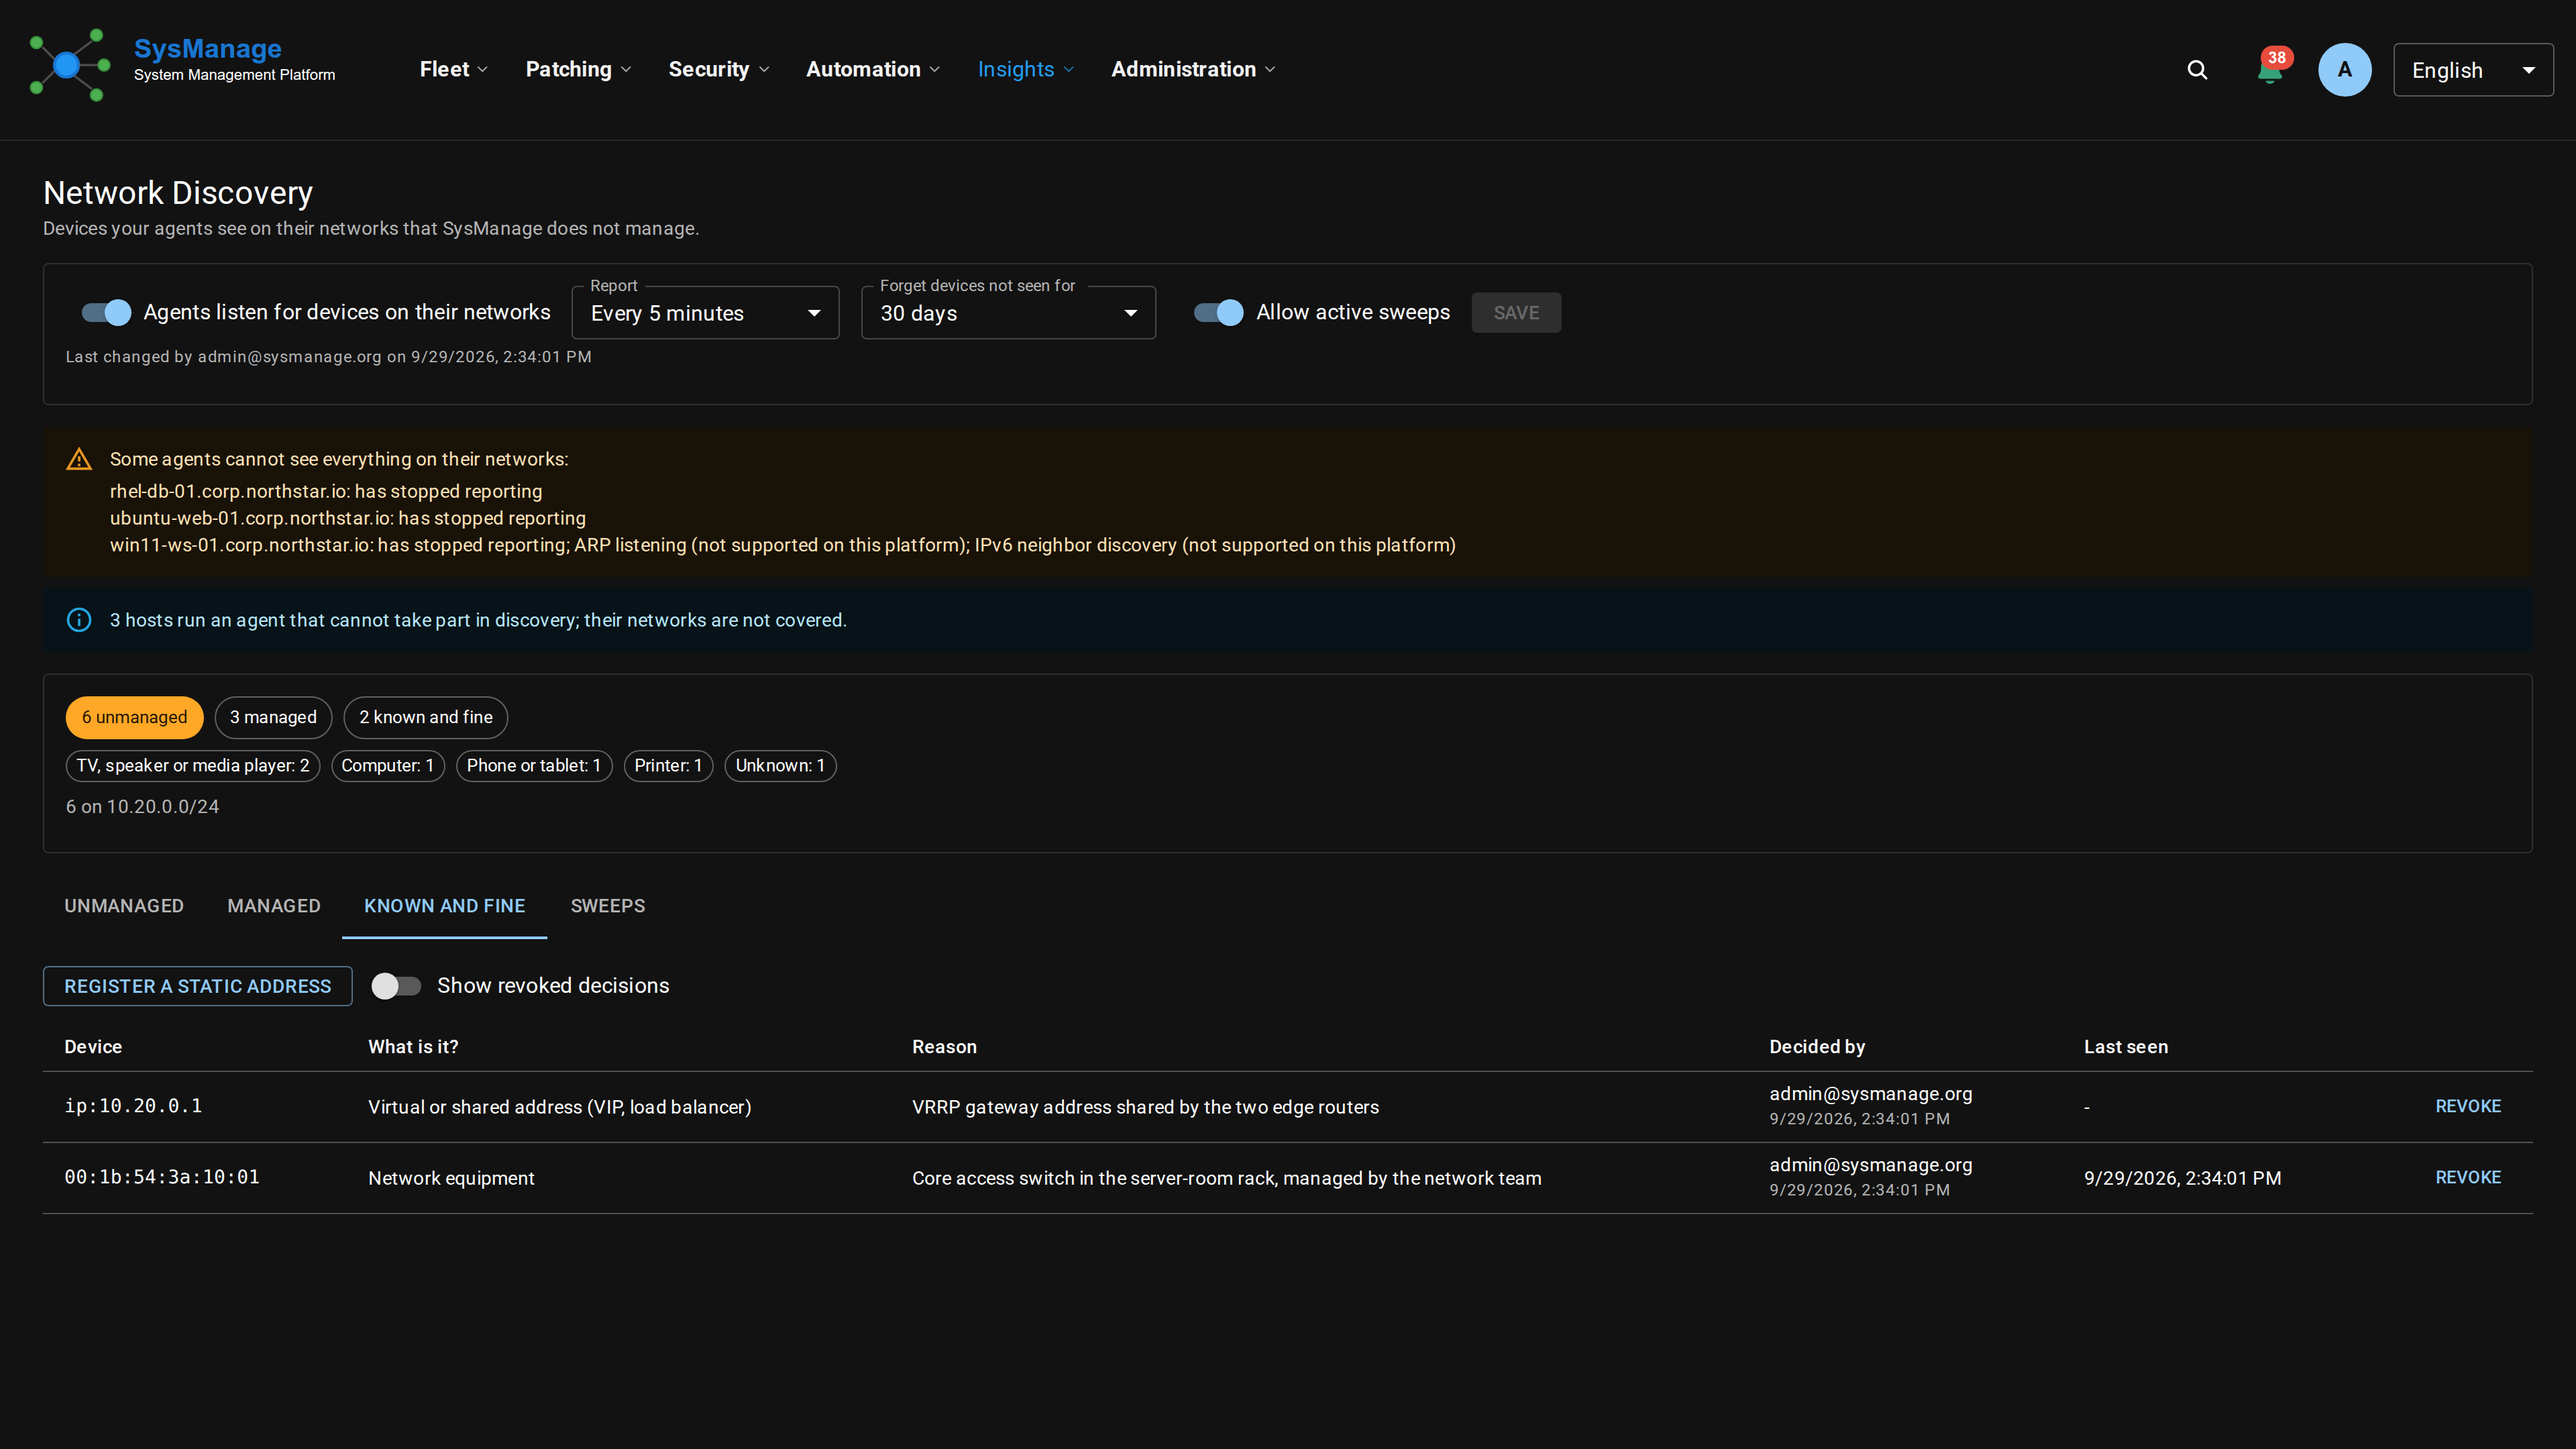
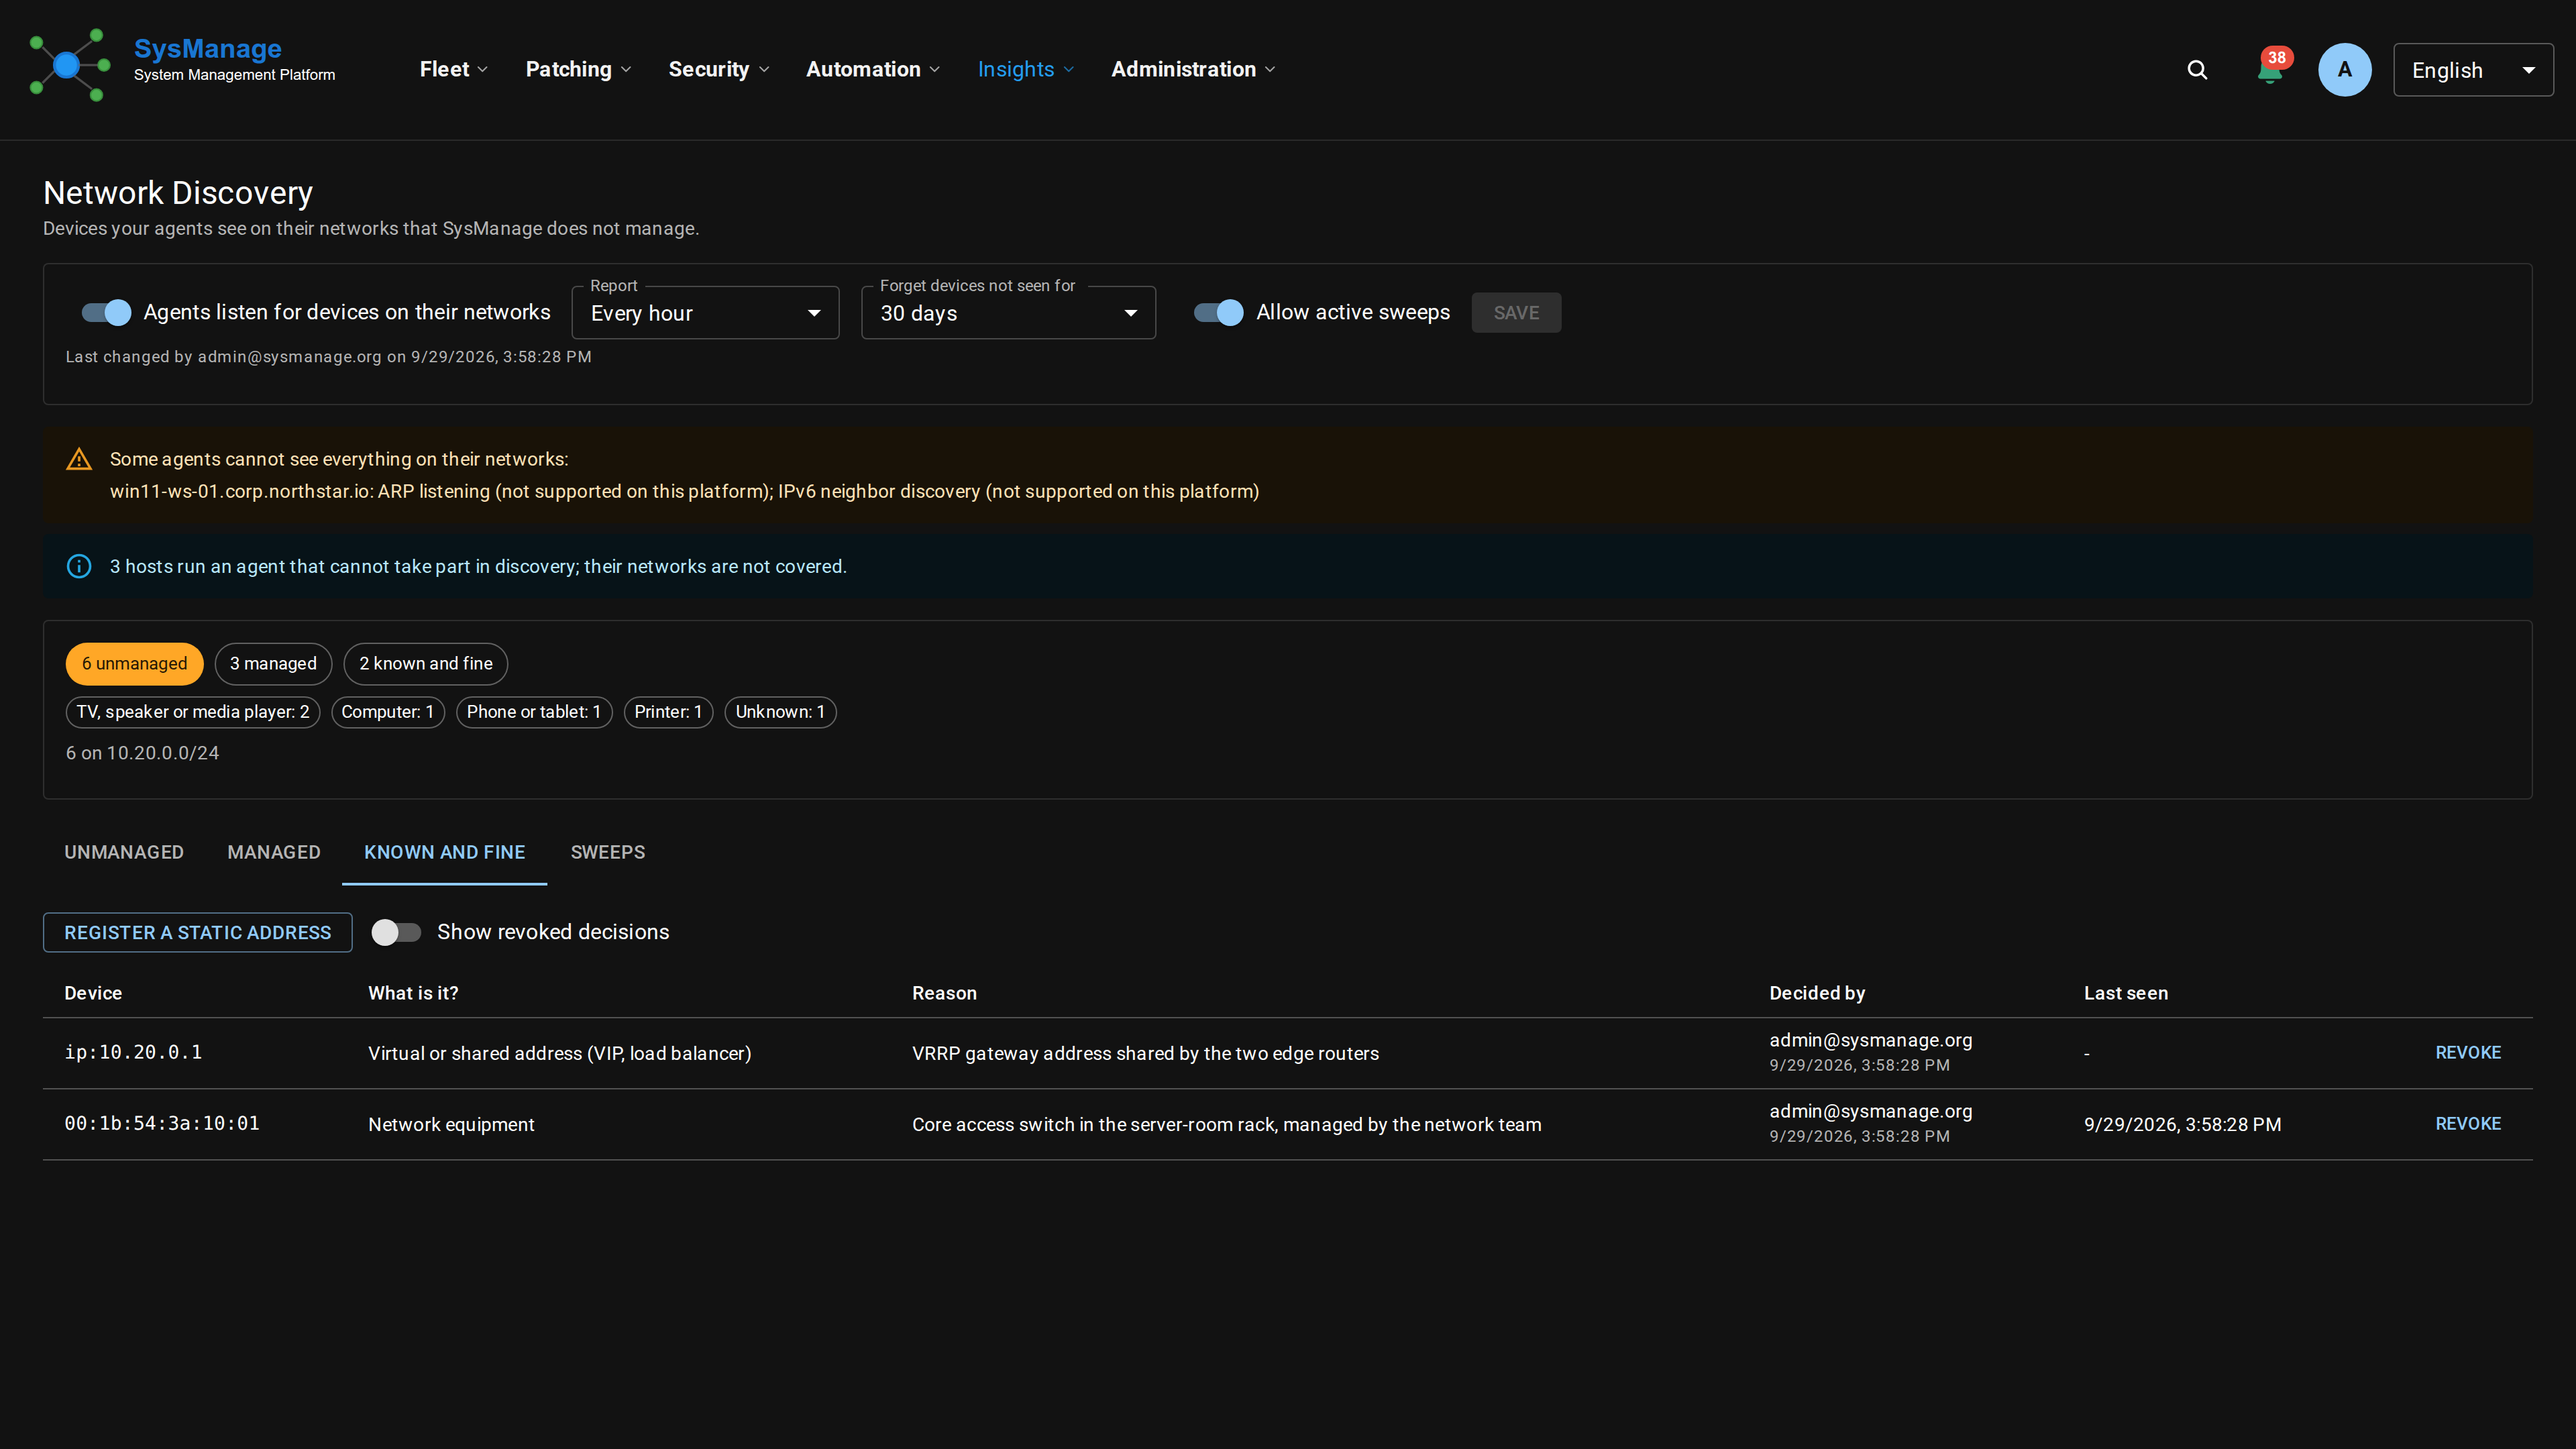
Updated images

diff --git a/screenshots/seed_discovery.py b/screenshots/seed_discovery.py
@@ -59,6 +59,7 @@ LAN = "10.20.0"
 WEB = "ubuntu-web-01.corp.northstar.io"
 DB_HOST = "rhel-db-01.corp.northstar.io"
 WIN = "win11-ws-01.corp.northstar.io"
+REPORT_INTERVAL = 3600
 DISCOVERY_COMMANDS = ("configure_network_discovery", "run_network_sweep")
 
 # Real IEEE prefixes, so the shipped OUI table resolves each vendor.
@@ -118,7 +119,7 @@ def _reports(hosts):
     web_report = {
         "interfaces": _interfaces(web),
         "methods": LINUX_METHODS,
-        "window_seconds": 300,
+        "window_seconds": REPORT_INTERVAL,
         "observations": neighbors + [
             _obs(*PRINTER, ["arp_listen", "mdns"], 12, ["NPI4E19A0.local"],
                  mdns=["_ipp._tcp", "_printer._tcp", "_pdl-datastream._tcp"]),
@@ -134,7 +135,7 @@ def _reports(hosts):
     db_report = {
         "interfaces": _interfaces(dbh),
         "methods": LINUX_METHODS,
-        "window_seconds": 300,
+        "window_seconds": REPORT_INTERVAL,
         "observations": [
             _obs(web.interface_mac, web.ipv4, ["arp_listen", "cache"], 57),
             _obs(*PRINTER, ["arp_listen"], 4),
@@ -146,7 +147,7 @@ def _reports(hosts):
     win_report = {
         "interfaces": _interfaces(win, "Ethernet"),
         "methods": WINDOWS_METHODS,
-        "window_seconds": 300,
+        "window_seconds": REPORT_INTERVAL,
         "observations": [
             _obs(*STREAMER, ["ssdp"], 2, iface="Ethernet",
                  ssdp=["ST: roku:ecp", "SERVER: Roku/12.5.0 UPnP/1.0"]),
@@ -274,7 +275,13 @@ def main():
 
     try:
         actor = _admin(session)
-        policy.set_policy(session, True, 300, actor, sweep_enabled=True, retention_days=30)
+        # Hourly reports: an observer counts as stale after 3 missed intervals,
+        # and the demo hosts never report again, so at 5 minutes every agent
+        # read "has stopped reporting" by the time the Enterprise capture got
+        # to these shots (15 minutes).  An hour gives the whole run 3 hours.
+        policy.set_policy(
+            session, True, REPORT_INTERVAL, actor, sweep_enabled=True, retention_days=30
+        )
         for host, report in _reports(hosts):
             outcome = svc.record_report(session, host.id, report)
             print(f"  report from {host.fqdn}: {outcome}")
